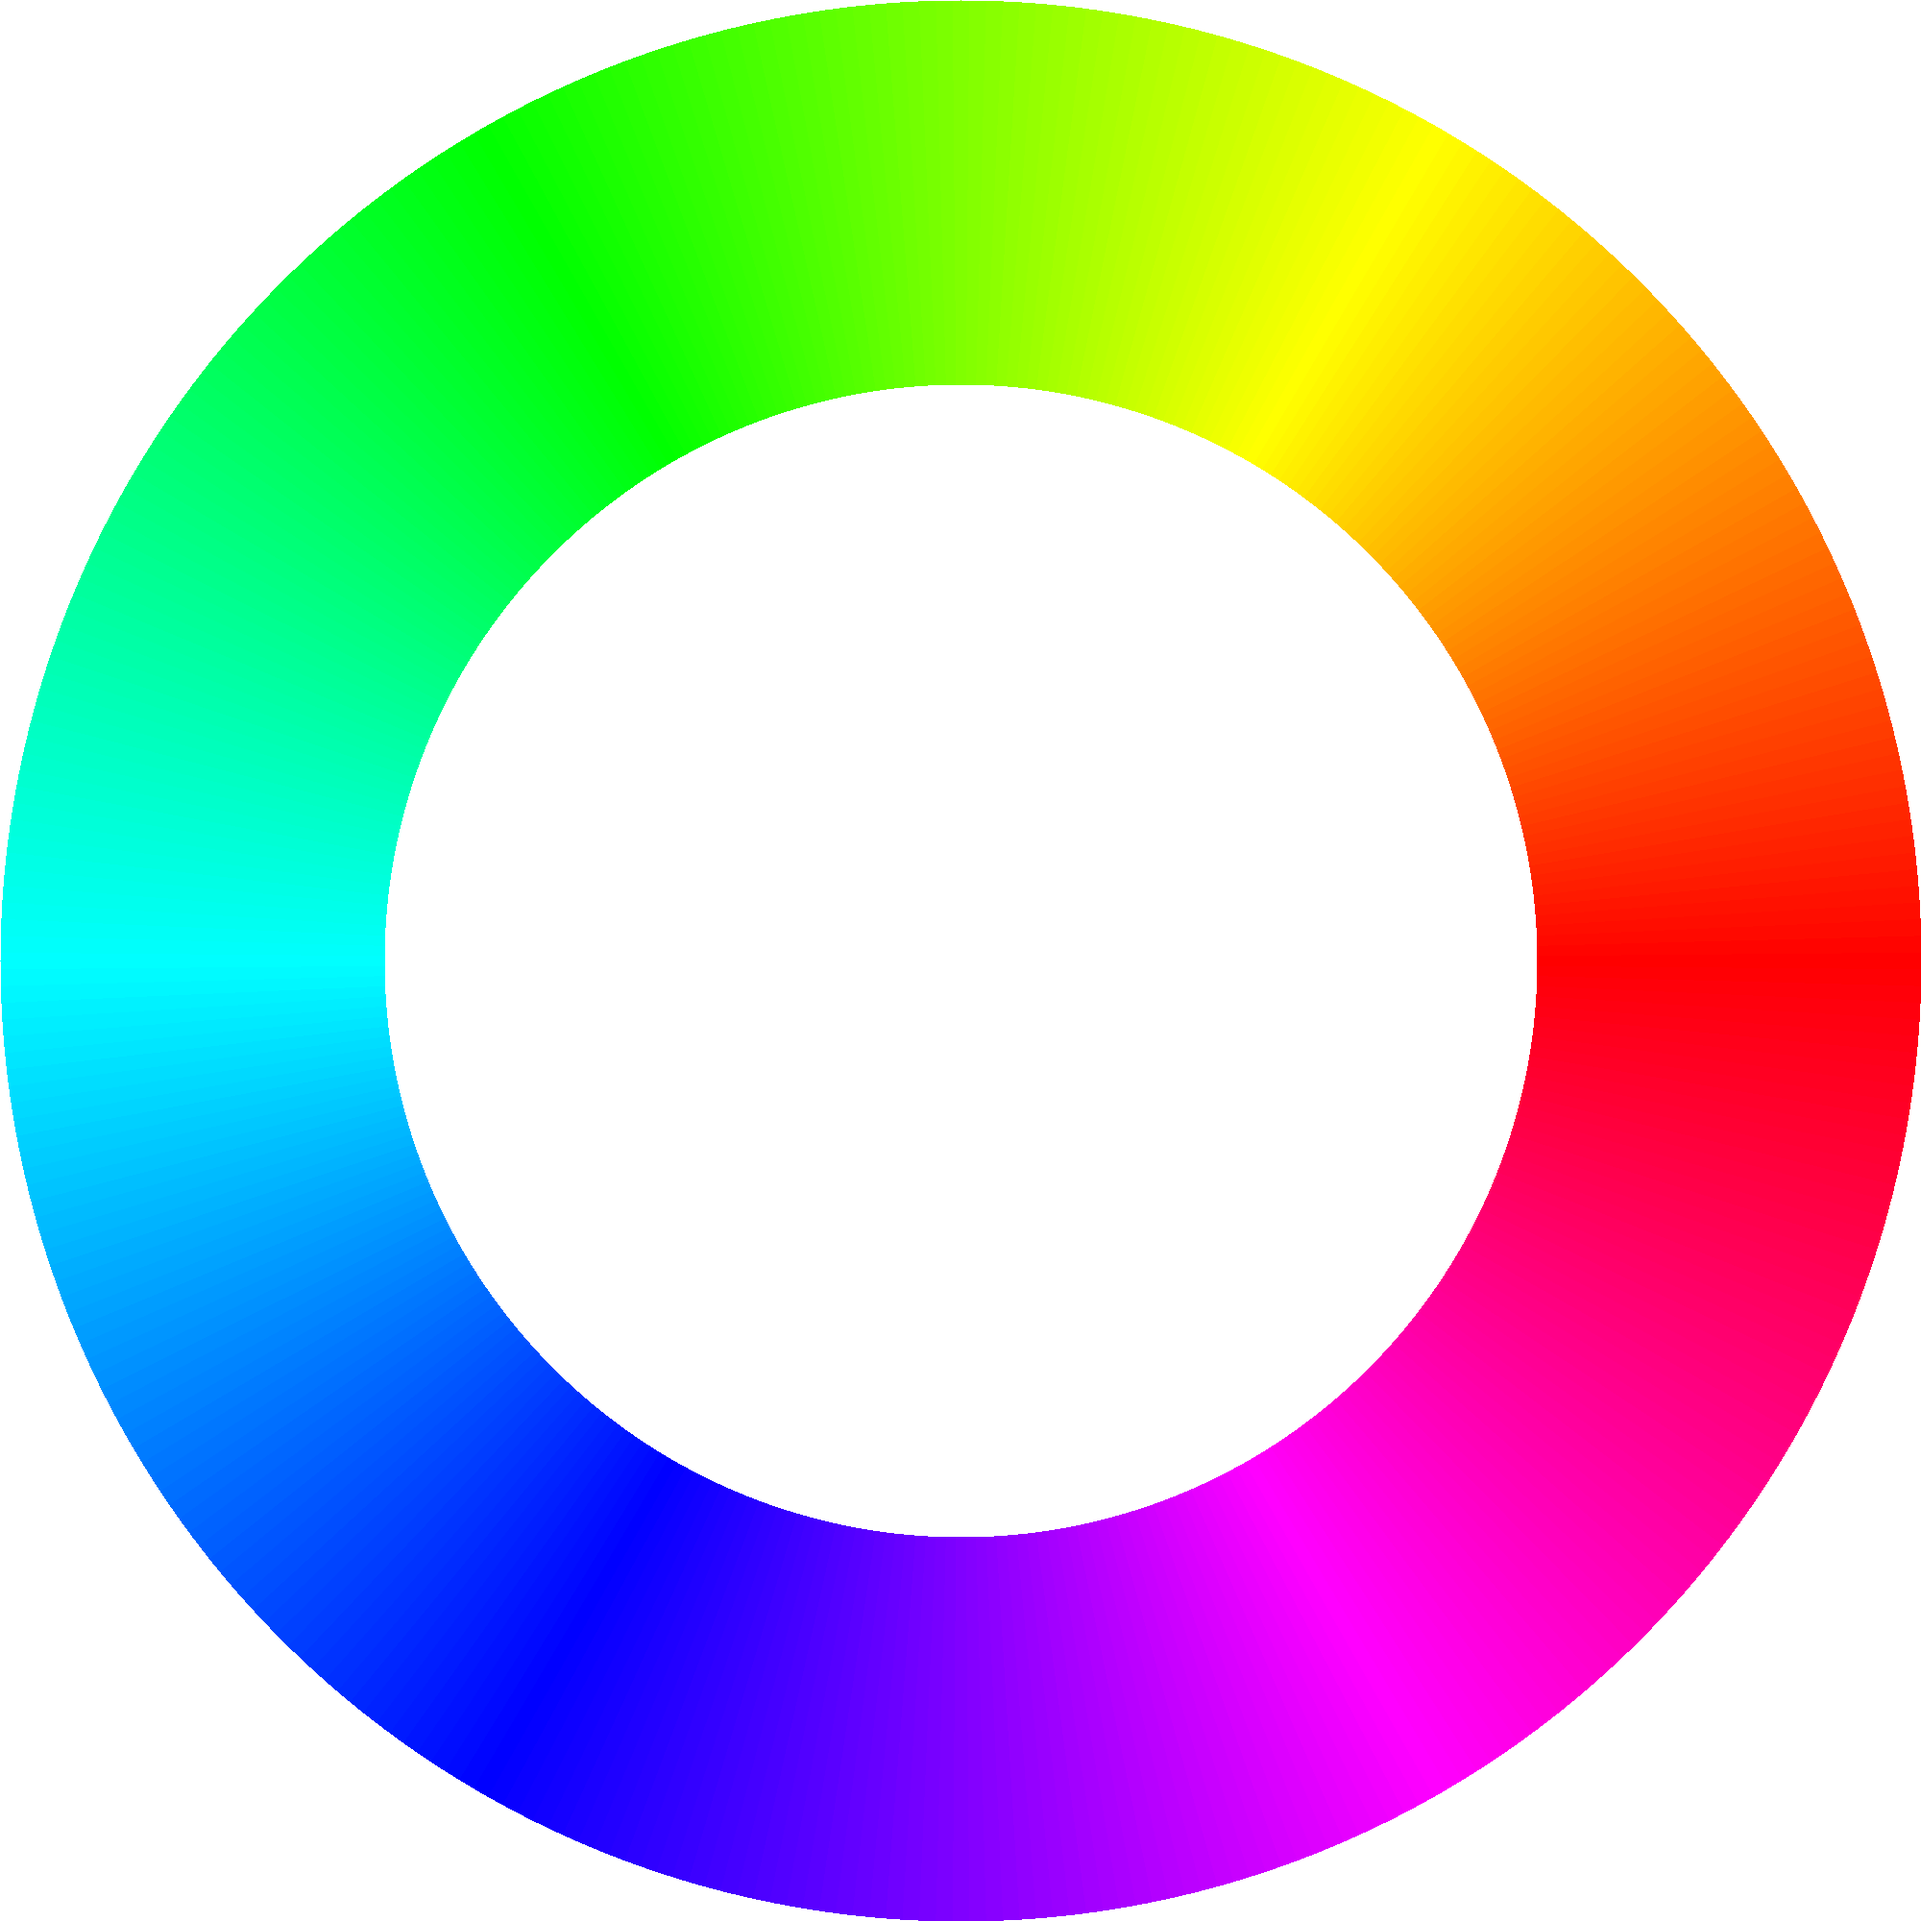
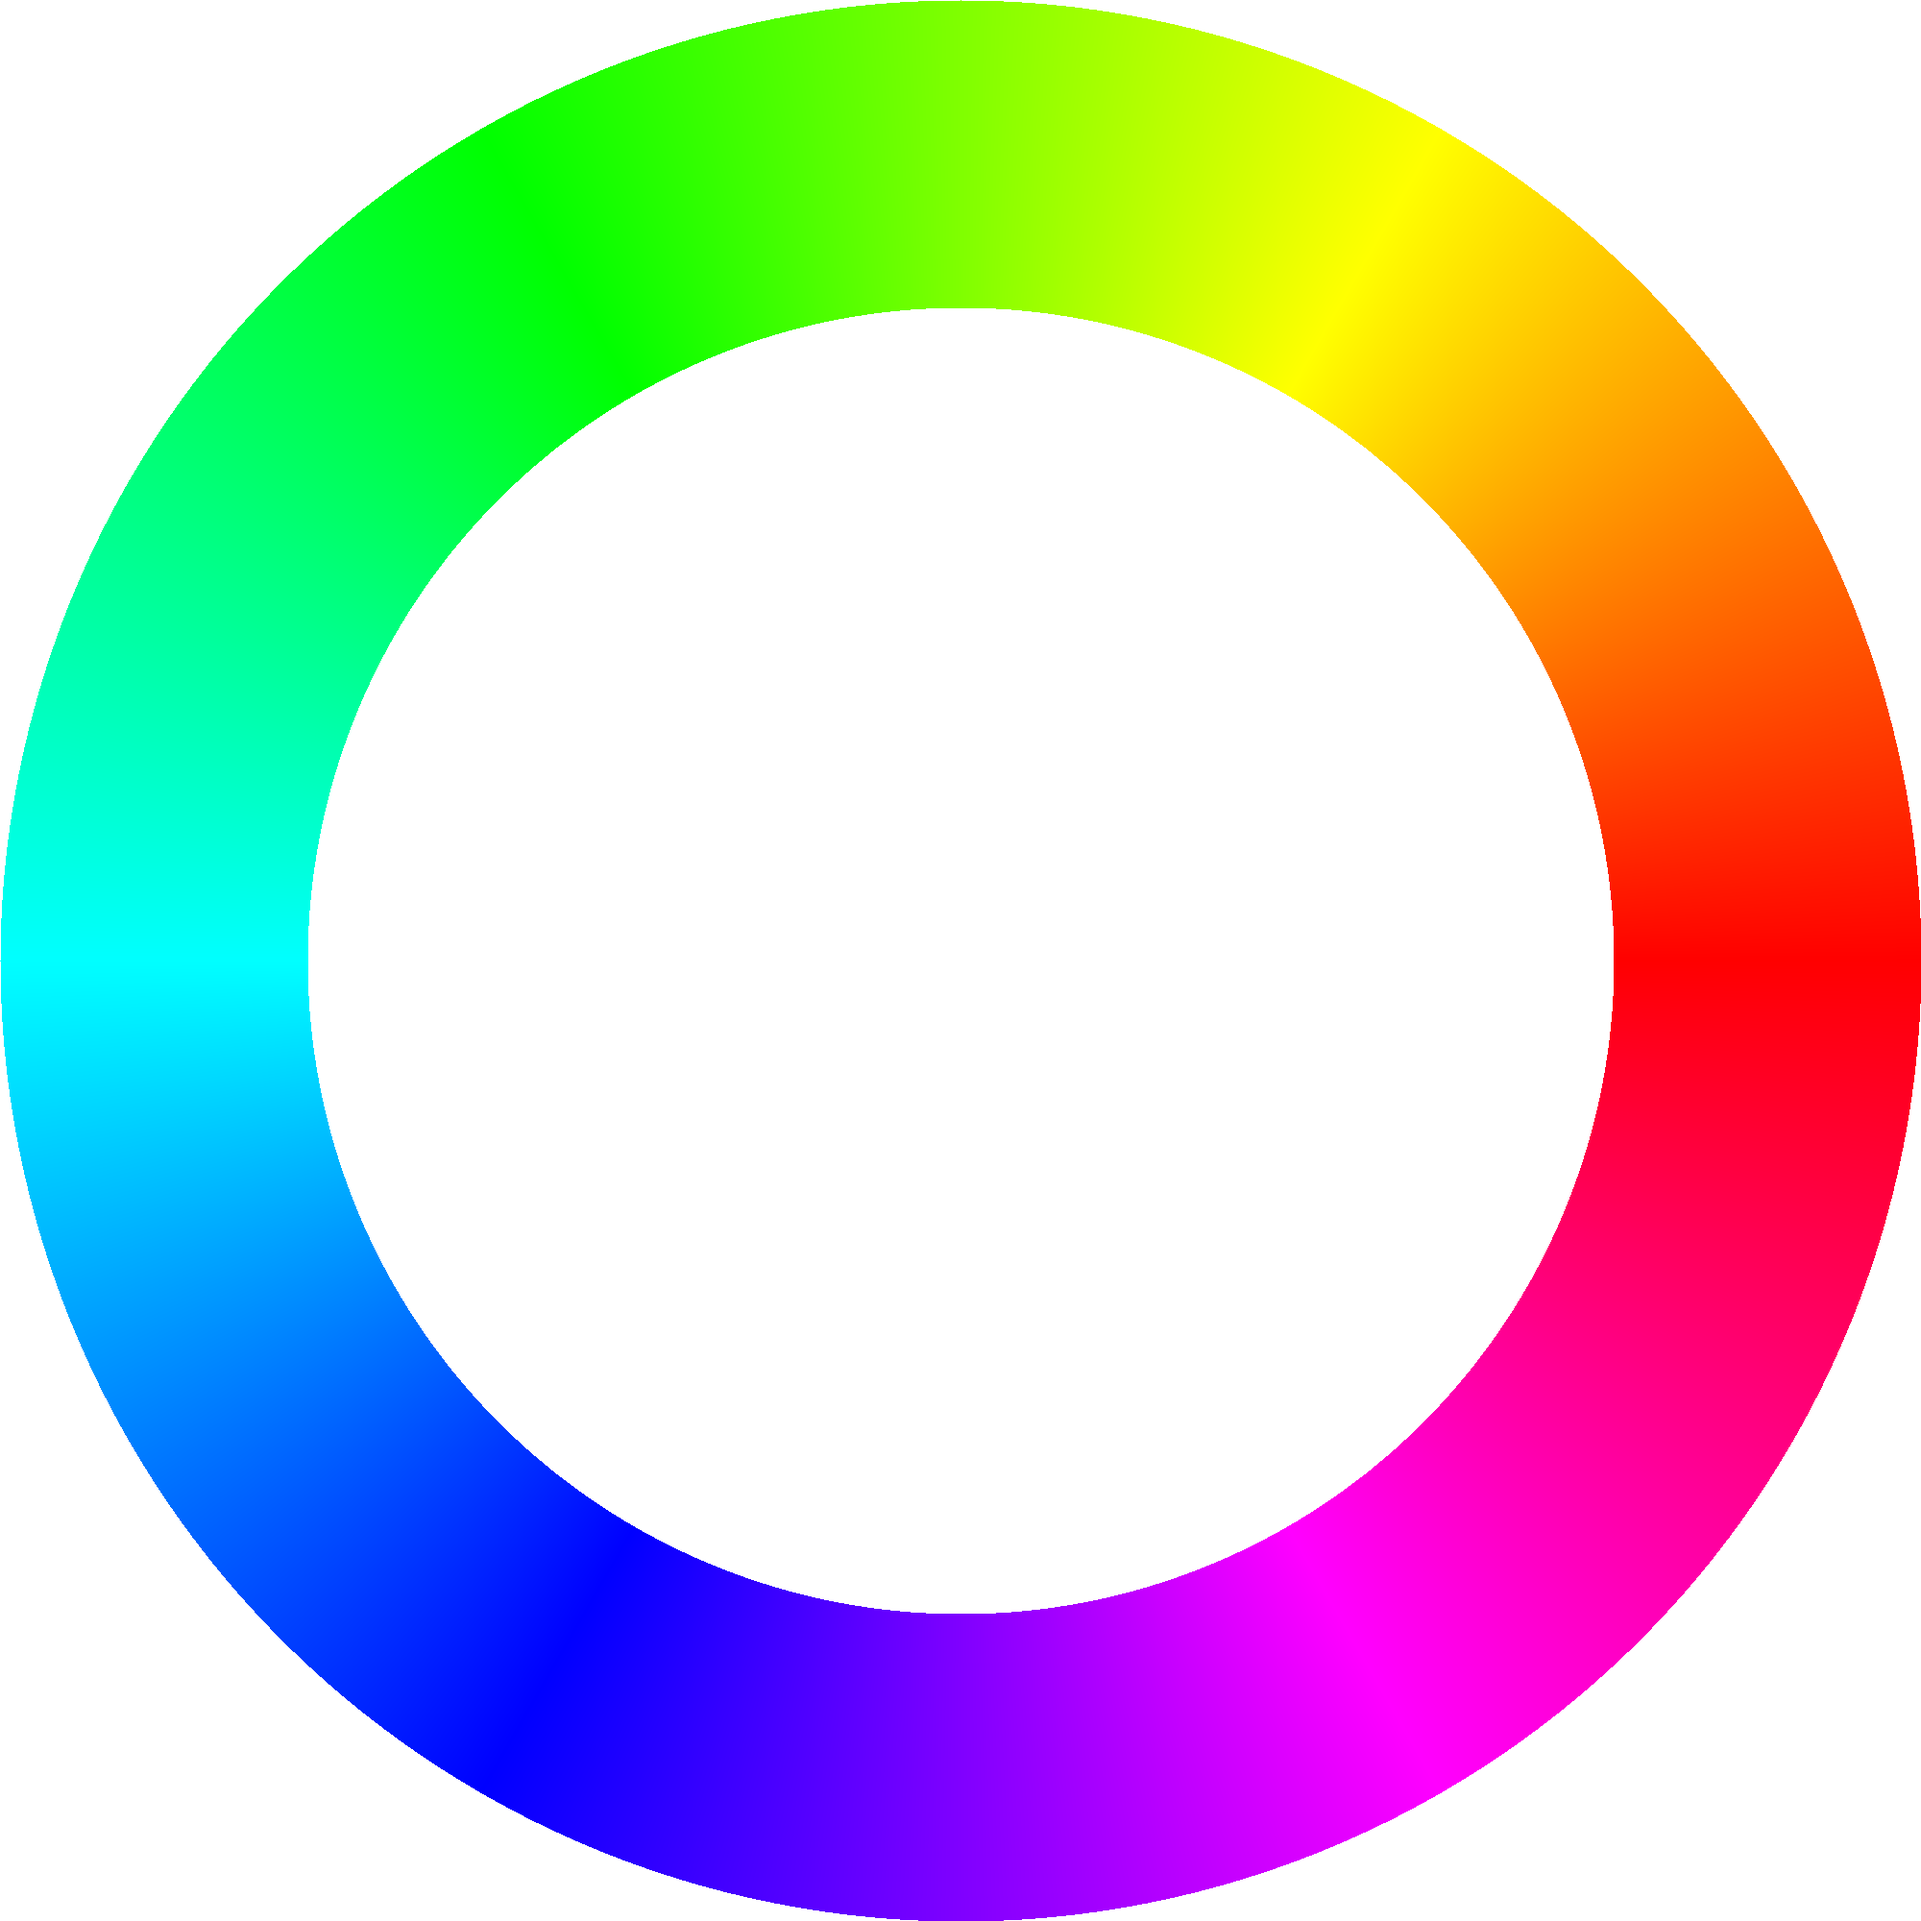
update

Changed region(s): [[0.155, 0.155, 0.837, 0.837]]

diff --git a/web/src/tools/colorpicker/colorpicker.vue b/web/src/tools/colorpicker/colorpicker.vue
@@ -1,40 +1,136 @@
 <template>
-  <div class="colorpicker">
-    <div class="colorpicker-1" v-if="!state">
+  <div class="colorPicker" ref="colorPicker">
+    <div class="colorPicker-1" v-if="!state">
       <div
-        class="colorpicker-inner"
+        class="colorPicker-inner"
         @click="change"
       >
         <div
-          class="colorpicker-colors"
+          class="colorPicker-colors"
           v-for="color in colors"
           :style="{background:color}"
         ></div>
       </div>
-      <div class="colorpicker-angle"></div>
-      <div class="colorpicker-exit"></div>
+      <div class="colorPicker-angle"></div>
+      <div class="colorPicker-exit"></div>
     </div>
-    <div class="colorpicker-2" v-else>
-
+    <div class="colorPicker-2" v-else>
+      <div class="colorPicker-inner">
+        <div
+          class="colorPicker-colors"
+          v-for="color in colors"
+          :style="{background:color}"
+        ></div>
+        <div
+          class="colorPicker-hueWheel"
+          @mousedown="hueWheelDown"
+        >
+          <div class="colorPicker-hueWheel-selector selector" :style="huesp"></div>
+        </div>
+        <div class="colorPicker-hsl-shadow">
+          <div
+            class="colorPicker-hsl"
+            :style="{background:colorByHue}"
+            @mousedown.stop="hslPickerDown"
+          >
+            <div class="colorPicker-hsl-selector selector" :style="hslsp"></div>
+          </div>
+        </div>
+      </div>
     </div>
   </div>
 </template>
 <script>
+  import { colorTranform } from '../../lib/colorTranform'
+
+  const colors = colorTranform()
+
   export default {
-    name: 'colorpicker',
+    name: 'colorPicker',
     data () {
       return {
-        state: 0,
-        colors: ['#ff00cc', '#ffcc00', '#00ccff', '#00ffcc'],
+        state: 1,
+        colors: ['#00ccff', '#00ccff', '#00ccff', '#00ccff'],
+        curHue: 0,
+        curHslDeg: 0,
+        curHslRadii: 0,
       }
     },
     methods: {
       change () {
-        this.state = 1
+        this.state = ~~!this.state
       },
+      hueWheelDown () {
+        const mousemove = e => {
+          let cp = {
+            x: this.$refs.colorPicker.offsetLeft + 60,
+            y: this.$refs.colorPicker.offsetTop + 60,
+          }
+          let mo = {x: e.clientX, y: e.clientY}
+          let hue = Math.atan2(cp.y - mo.y, mo.x - cp.x) * 180 / Math.PI
+          if (cp.y < mo.y)
+            hue += 360
+          this.curHue = hue
+        }
+        const mouseup = () => {
+          document.removeEventListener('mousemove', mousemove)
+          document.removeEventListener('mouseup', mouseup)
+        }
+        document.addEventListener('mousemove', mousemove)
+        document.addEventListener('mouseup', mouseup)
+      },
+      hslPickerDown () {
+        const mousemove = e => {
+          let cp = {
+            x: this.$refs.colorPicker.offsetLeft + 60,
+            y: this.$refs.colorPicker.offsetTop + 60,
+          }
+          let mo = {x: e.clientX, y: e.clientY}
+          this.curHslDeg = Math.atan2(cp.y - mo.y, mo.x - cp.x) * 180 / Math.PI
+          this.curHslRadii = ((cp.y - mo.y) ** 2 + (mo.x - cp.x) ** 2) ** (1 / 2)
+        }
+        const mouseup = () => {
+          document.removeEventListener('mousemove', mousemove)
+          document.removeEventListener('mouseup', mouseup)
+        }
+        document.addEventListener('mousemove', mousemove)
+        document.addEventListener('mouseup', mouseup)
+      },
+    },
+    computed: {
+      colorByHue () {
+        return '#' + colors.HSL2Hex({h: this.curHue / 360, s: 1, l: 0.5})
+      },
+      huesp () {
+        let hue = this.curHue
+        if (hue > 180)
+          hue -= 360
+        let ll = 32 * 2 ** (1 / 2)
+        let x = ll * Math.cos(hue * Math.PI / 180) + 48
+        let y = 48 - ll * Math.sin(hue * Math.PI / 180)
+        return {
+          top: y + 'px',
+          left: x + 'px',
+        }
+      },
+      hslsp () {
+        let deg = this.curHslDeg - 45
+        let ll = this.curHslRadii
+        let x = ll * Math.cos(deg * Math.PI / 180) + 17
+        let y = 17 - ll * Math.sin(deg * Math.PI / 180)
+        if (x < -6) x = -6
+        if (x > 40) x = 40
+        if (y < -6) y = -6
+        if (y > 40) y = 40
+        return {
+          top: y + 'px',
+          left: x + 'px',
+        }
+      },
+
     },
   }
 </script>
 <style lang="less" scoped>
-  @import "./colorpicker";
+  @import "colorPicker";
 </style>

diff --git a/web/src/tools/colorpicker/colorpicker.less b/web/src/tools/colorpicker/colorpicker.less
@@ -1,9 +1,14 @@
 @color: #f9f9f9;
 
-.colorpicker {
+.colorPicker {
   position: absolute;
+  width: 120px;
+  height: 120px;
 
-  .colorpicker-1 {
+  .colorPicker-1 {
+    position: absolute;
+    top: 12px;
+    left: 12px;
     width: 86px;
     height: 86px;
 
@@ -38,7 +43,7 @@
       z-index: 0;
     }
 
-    .colorpicker-inner {
+    .colorPicker-inner {
       width: 68px;
       height: 68px;
       border-radius: 50%;
@@ -49,14 +54,14 @@
       z-index: 3;
       overflow: hidden;
 
-      .colorpicker-colors {
+      .colorPicker-colors {
         width: 34px;
         height: 34px;
         float: left;
       }
     }
 
-    .colorpicker-angle {
+    .colorPicker-angle {
       position: absolute;
       width: 43px;
       height: 43px;
@@ -79,7 +84,7 @@
       }
     }
 
-    .colorpicker-exit {
+    .colorPicker-exit {
       position: absolute;
       width: 12px;
       height: 12px;
@@ -96,11 +101,106 @@
     }
   }
 
-  .colorpicker-2 {
-    width: 100px;
-    height: 100px;
+  .colorPicker-2 {
+    width: 120px;
+    height: 120px;
     border-radius: 50%;
     box-shadow: 0 0 0 1px rgba(0, 0, 0, .16);
+    position: absolute;
+    background: @color;
+
+    .colorPicker-inner {
+      position: absolute;
+      width: 118px;
+      height: 118px;
+      top: 1px;
+      left: 1px;
+      border-radius: 50%;
+      overflow: hidden;
+
+      .colorPicker-colors {
+        width: 59px;
+        height: 59px;
+        float: left;
+      }
+
+      .selector {
+        position: absolute;
+        width: 10px;
+        height: 10px;
+        border-radius: 50%;
+        border: 1px #ffffff solid;
+        box-shadow: inset 0 0 1px 0 rgba(0, 0, 0, .88);
+        z-index: 0;
+      }
+
+      .colorPicker-hueWheel {
+        position: absolute;
+        width: 108px;
+        height: 108px;
+        top: 5px;
+        left: 5px;
+        border-radius: 50%;
+        background-image: url("./hueWheel.png");
+        background-size: 108px auto;
+        background-repeat: no-repeat;
+        box-shadow: 0 0 1px 4px rgba(0, 0, 0, .16);
+
+        &:before{
+          content: '';
+          display: block;
+          width: 100%;
+          height: 100%;
+          position: absolute;
+          top: 0;
+          left: 0;
+          background: transparent;
+          z-index: 3;
+        }
+      }
+
+      .colorPicker-hsl-shadow {
+        position: absolute;
+        width: 72px;
+        height: 72px;
+        top: 23px;
+        left: 23px;
+        border-radius: 50%;
+        box-shadow: inset 0 0 1px 1px rgba(0, 0, 0, .16);
+
+        .colorPicker-hsl {
+          position: absolute;
+          width: 46px;
+          height: 46px;
+          top: 13px;
+          left: 13px;
+          transform: rotate(-45deg);
+          box-shadow: 0 0 1px 1px rgba(0, 0, 0, .16);
+          z-index: 4;
+
+          &:after {
+            content: '';
+            display: block;
+            width: 100%;
+            height: 100%;
+            background-image: url("./hslShadow.png");
+            background-repeat: no-repeat;
+            background-size: 100%;
+          }
+          &:before{
+            content: '';
+            display: block;
+            width: 100%;
+            height: 100%;
+            position: absolute;
+            top: 0;
+            left: 0;
+            background: transparent;
+            z-index: 3;
+          }
+        }
+      }
+    }
   }
 
 }

diff --git a/web/src/tools/createColors/hueWheel.vue b/web/src/tools/createColors/hueWheel.vue
@@ -29,13 +29,13 @@
     },
     props: {
       width: {
-        default: 200,
+        default: 2000,
       },
       height: {
-        default: 200,
+        default: 2000,
       },
       wheelWidth: {
-        default: 40,
+        default: 320,
       },
     },
     methods: {
@@ -57,9 +57,8 @@
               continue
 
             let Hue = Math.atan2(s2, s1) * 180 / Math.PI
-            if (s2 < 0) {
+            if (s2 < 0)
               Hue += 360
-            }
             let {r, g, b} = colors.HSL2RGB({h: Hue / 360, s: 1, l: 0.5})
             ctx.fillStyle = `rgb(${r},${g},${b})`
             ctx.fillRect(l, t, 1, 1)

diff --git a/web/src/pages/design/design.vue b/web/src/pages/design/design.vue
@@ -2,11 +2,13 @@
   <div id="design">
     <canva></canva>
     <colorPicker></colorPicker>
+    <!--<hue></hue>-->
   </div>
 </template>
 <script>
   import canva from '../../components/canva/canva'
-  import colorPicker from '../../tools/colorpicker/colorpicker'
+  import hue from '../../tools/createColors/hueWheel'
+  import colorPicker from '../../tools/colorPicker/colorPicker'
 
   export default {
     name: 'design',
@@ -26,7 +28,7 @@
       await this.test()
     },
     components:{
-      canva,colorPicker,
+      canva,colorPicker,hue
     }
   }
 </script>
